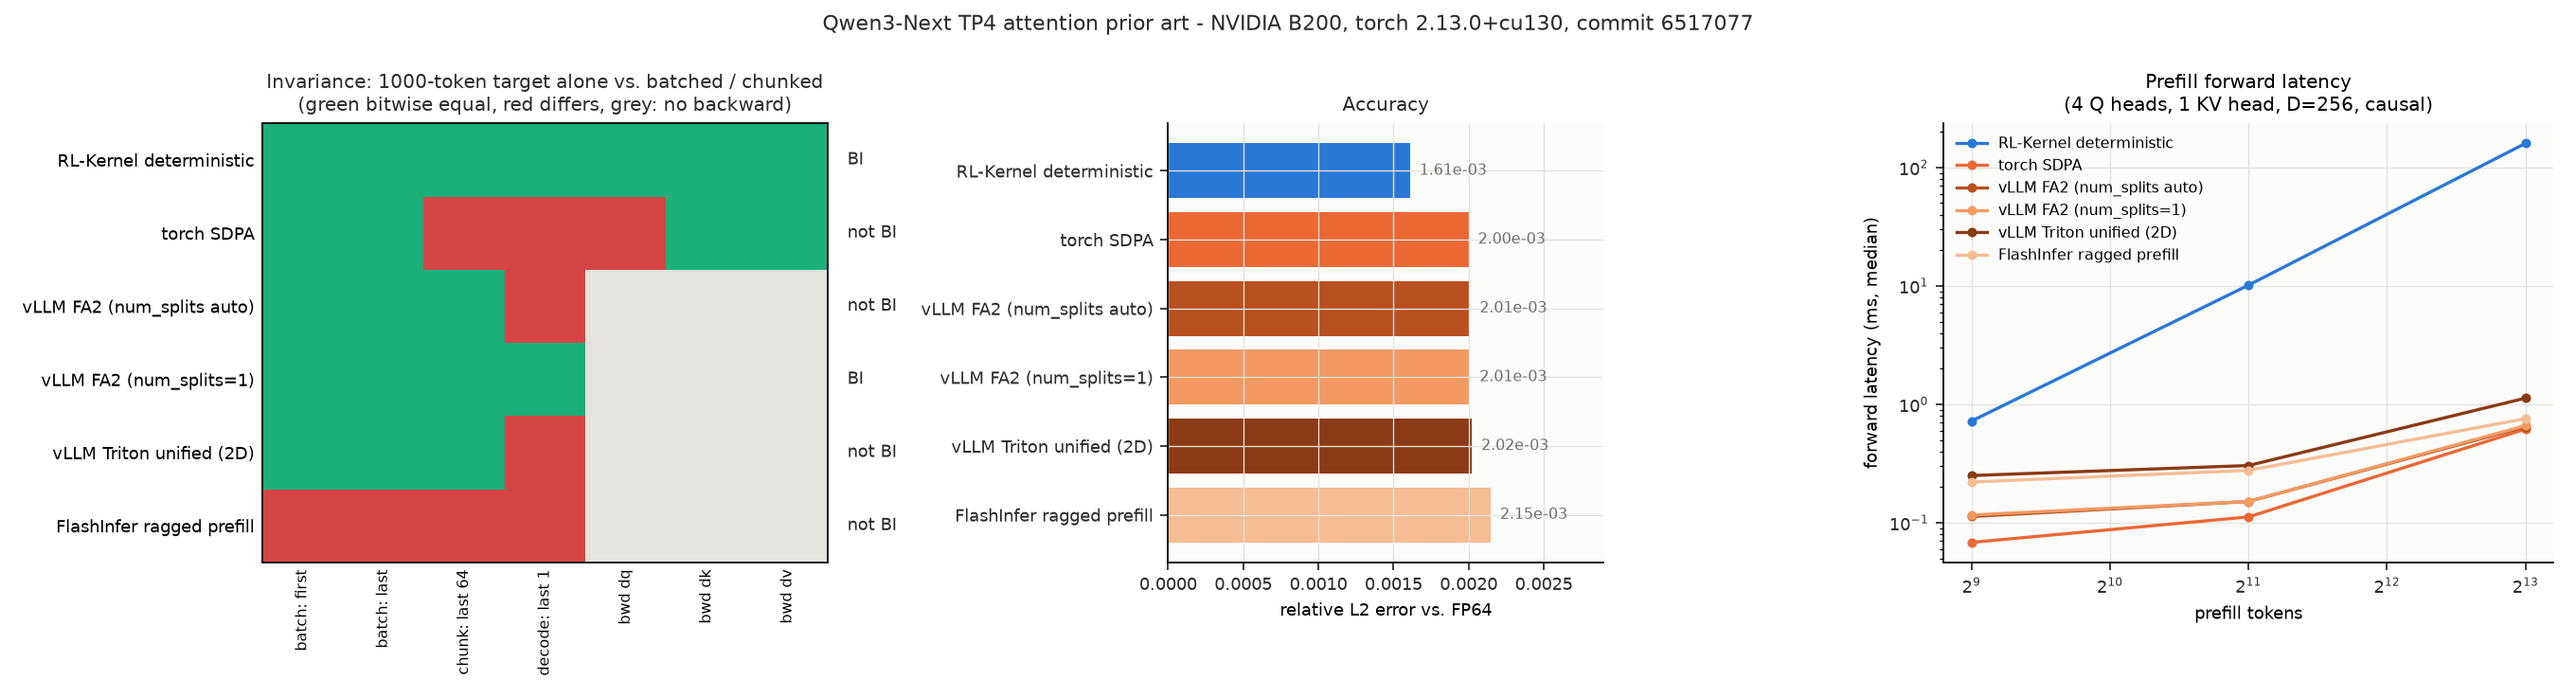
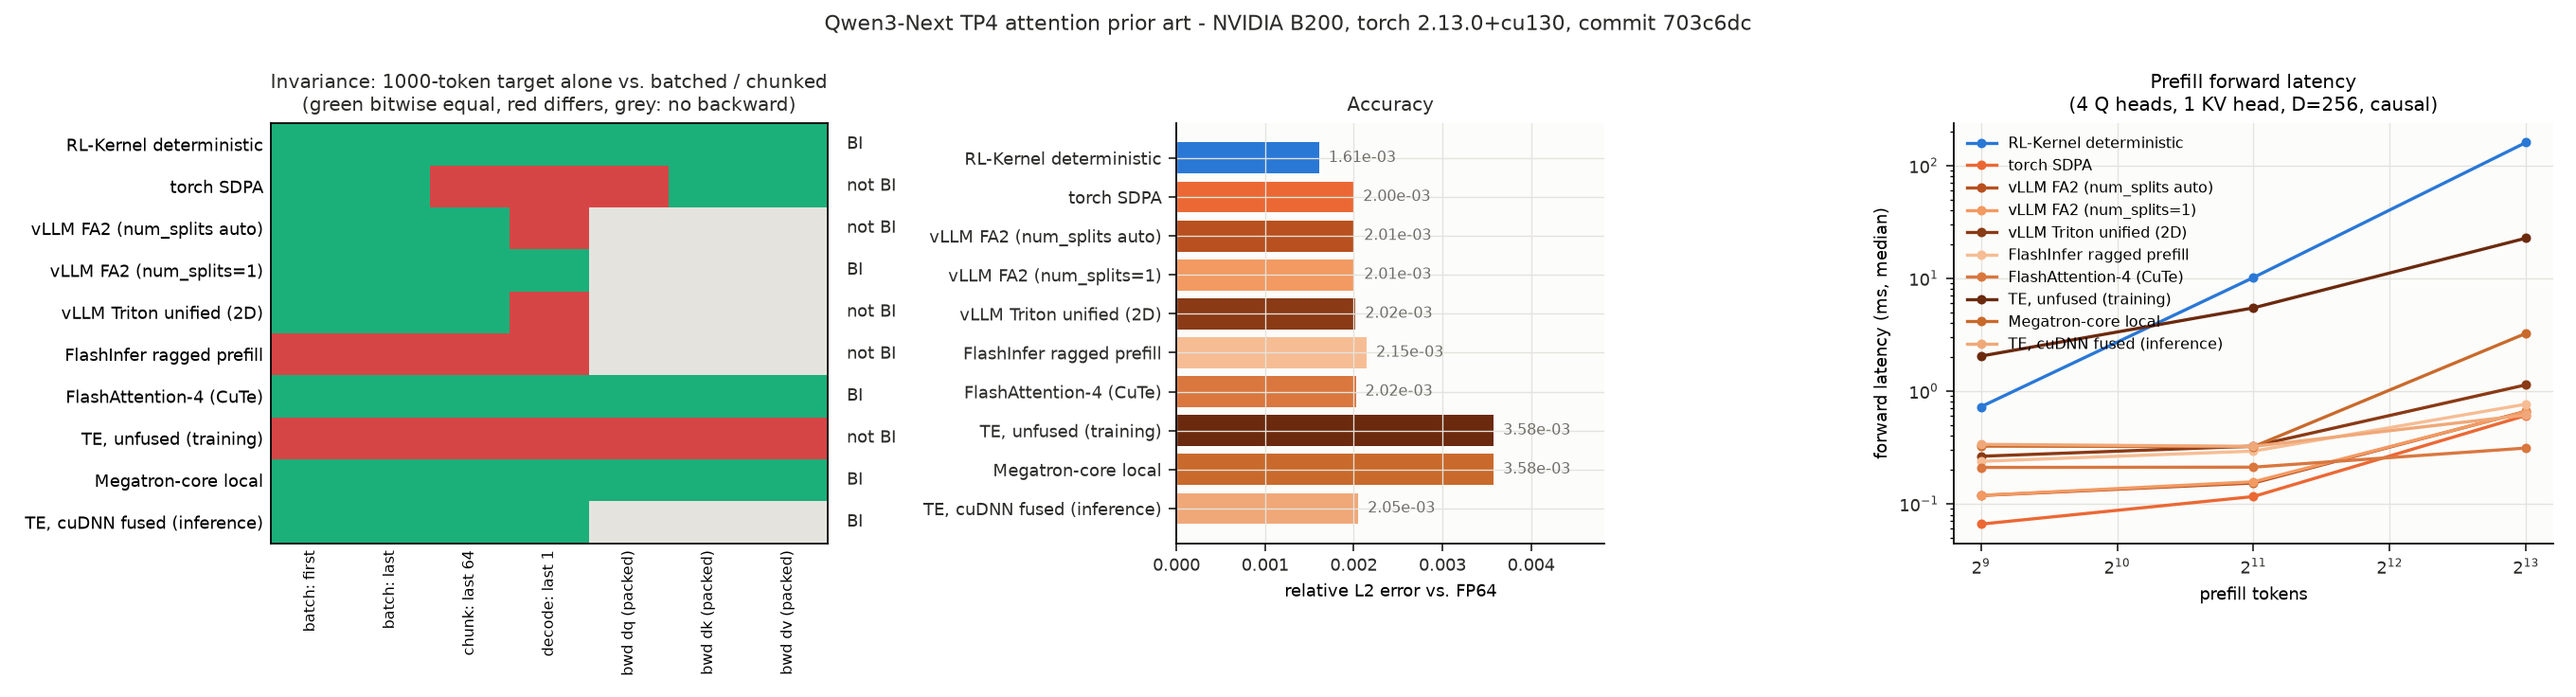
docs(qwen3-next): attention prior art with FlashAttention-4, TE and Megatron-core measured (B200, 703c6dc)

diff --git a/docs/usage/evidence/qwen3-next-tp4-mixers-b200/README.md b/docs/usage/evidence/qwen3-next-tp4-mixers-b200/README.md
@@ -5,14 +5,14 @@
 | `tp4-gdn/` | `9e6c4f2` | `torchrun --nproc-per-node 4 scripts/qwen3_next_tp_gdn_check.py --checkpoint <ckpt> --output tp4-gdn` |
 | `tp4-attention/` | `9e6c4f2` | `torchrun --nproc-per-node 4 scripts/qwen3_next_tp_attention_check.py --checkpoint <ckpt> --output tp4-attention` |
 | `tp4-moe/` | `9e6c4f2` | `TRITON_F32_DEFAULT=ieee torchrun --nproc-per-node 4 scripts/qwen3_next_tp_moe_check.py --checkpoint <ckpt> --output tp4-moe` |
-| `attention/report.json`, `attention/figure.png` | `6517077` | `python scripts/qwen3_next_attention_prior_art.py --out attention/report.json`, then `scripts/plot_qwen3_next_attention_prior_art.py` |
+| `attention/report.json`, `attention/figure.png` | `703c6dc` | two processes, then `scripts/plot_qwen3_next_attention_prior_art.py attention/report.json` (see below) |
 
 Every file records its commit and `tracked_tree_dirty: false`; each run used a
 clean clone with its own `rl_engine._C` built in place, on B200 GPUs (driver
 580.126.20), torch 2.13.0+cu130, vLLM 0.30.0, NCCL 2.29.7. `<ckpt>` is the
 official `Qwen/Qwen3-Next-80B-A3B-Instruct` revision
 `9c7f2fbe84465e40164a94cc16cd30b6999b0cc7`: the GDN and MoE gates read layer 0,
-the attention gate layer 3. `6517077` adds only the attention prior-art runner
+the attention gate layer 3. `703c6dc` adds only the attention prior-art runner
 and plot on top of `9e6c4f2` (and the MoE evidence merge).
 
 In the job that ran the gates, the mixer GPU checks
@@ -31,6 +31,41 @@ scale 1/16, causal. A 1000-token target sequence is computed alone and in a
 batch with sequences of 777, 1500 and 64 tokens (first and last);
 `prefill_decode_bitwise` compares the last 64 rows and the last row computed
 against the full KV with the same rows of the full prefill;
-`backward_repeat_bitwise` repeats the target's backward after the companions'
-backwards ran. Accuracy is against FP64; latencies are CUDA-event medians with
+`backward_batch_bitwise` compares the target's dq/dk/dv computed alone with the
+same sequence packed first and last among the companions (one launch where the
+engine has a packed backward). Accuracy is against FP64; latencies are CUDA-event medians with
 the candidate order reversed every iteration.
+
+The report was produced in two processes of the same job and merged:
+
+```bash
+python scripts/qwen3_next_attention_prior_art.py \
+  --only rl_kernel_cuda,torch_sdpa,vllm_fa2_auto,vllm_fa2_split1,vllm_triton_2d,flashinfer,fa4_cute,te_training,megatron_local \
+  --out report-main.json
+python scripts/qwen3_next_attention_prior_art.py --only te_fused --merge report-main.json --out report.json
+```
+
+Both run in the training environment (vLLM 0.30.0, Megatron-core 0.16.0rc0,
+Transformer Engine 2.16.1, cuDNN 9.20) with `CUDNN_HOME` pointing at the
+`nvidia-cudnn-cu13` wheel. Notes on the engines added in this revision:
+
+- **FlashAttention-4** is the CuTe-DSL build vendored by vLLM
+  (`vllm.vllm_flash_attn.cute`), varlen forward and its default backward. Its
+  `deterministic=True` backward asserts for head dim 256 on SM100.
+- **Transformer Engine**: with cuDNN 9.20 on SM100, TE offers its fused cuDNN
+  backend for head dim 256 only in inference mode; in training mode it selects
+  the unfused PyTorch fallback (`NVTE_DEBUG=1` shows the selection). Both are
+  measured. The unfused fallback raises a shape error when the query is shorter
+  than the KV (`padding_causal_bottom_right`, THD), recorded as
+  `prefill_decode_failed`. `NVTE_ALLOW_NONDETERMINISTIC_ALGO` only affects the
+  fused backward, which does not exist here, so it is not a separate row.
+- The fused TE row runs in its own process because cudnn-frontend's runtime
+  loader refuses to start when both `libcudart.so.12` and `libcudart.so.13`
+  can be `dlopen`ed, and the compute nodes' system image provides a CUDA 12
+  runtime next to the CUDA 13 one this stack uses. That process had a
+  non-loadable `libcudart.so.12` stub first on `LD_LIBRARY_PATH`; only
+  `libcudart.so.13` was loaded in either process. Its latencies come from that
+  process, not interleaved with the other candidates.
+- **Megatron-core**'s own `DotProductAttention` (not the TE extension) has no
+  packed-sequence path, so it runs one launch per sequence with a bottom-right
+  causal mask; its batch invariance follows from that.
